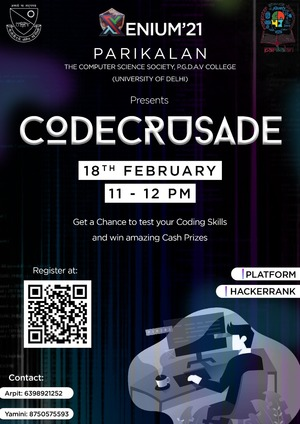
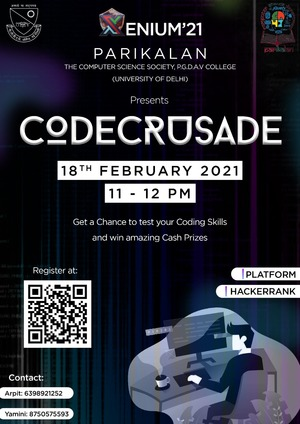
Final Change 1

Changed region(s): [[0.18, 0.3679, 0.81, 0.4292]]

diff --git a/src/components/Clubs/netweavers.js b/src/components/Clubs/netweavers.js
@@ -33,9 +33,10 @@ const netweavers = () => {
             build robust and automated Dynamic Interface but there is no right
             platform to direct you, that's where we introduce you with our Club
             Netweavers.
-            <br /> Our motive is to provide platform for real time hands on for
-            web designing. We use MEAN stack to for development.
-            <br /> Our only motive is: to train the members with new technology
+            <br />
+            We provide platform for real time hands-on MEAN stack for the web
+            development.
+            <br /> Our only motive is to train the members with new technology
             and advance skills to build the attractive interfaces, modules and
             websites.
           </i>
@@ -49,7 +50,7 @@ const netweavers = () => {
             <Figure>
               <Figure.Image src={ravish} roundedCircle />
               <Figure.Caption>
-                <strong style={{color: "white"}}>Dr. Ravish Sharma</strong>
+                <strong style={{ color: "white" }}>Dr. Ravish Sharma</strong>
               </Figure.Caption>
             </Figure>
           </Col>
@@ -57,7 +58,7 @@ const netweavers = () => {
             <Figure>
               <Figure.Image src={charu} roundedCircle />
               <Figure.Caption>
-                <strong style={{color: "white"}}>Dr. Charu Puri</strong>
+                <strong style={{ color: "white" }}>Dr. Charu Puri</strong>
               </Figure.Caption>
             </Figure>
           </Col>
@@ -68,7 +69,7 @@ const netweavers = () => {
           <Col xs={6} md={4}>
             <Figure>
               <Figure.Image src={ankit} roundedCircle />
-              <Figure.Caption style={{color: "white"}}>
+              <Figure.Caption style={{ color: "white" }}>
                 <strong>
                   Ankit Kumar
                   <br />
@@ -82,7 +83,7 @@ const netweavers = () => {
           <Col xs={6} md={4}>
             <Figure>
               <Figure.Image src={adya} roundedCircle />
-              <Figure.Caption style={{color: "white"}}>
+              <Figure.Caption style={{ color: "white" }}>
                 <strong>
                   Adya Mishra
                   <br />
@@ -96,11 +97,11 @@ const netweavers = () => {
           <Col xs={6} md={4}>
             <Figure>
               <Figure.Image src={preksha} roundedCircle />
-              <Figure.Caption style={{color: "white"}}>
+              <Figure.Caption style={{ color: "white" }}>
                 <strong>
-                  Preksha
+                  Preksha Jha
                   <br />
-                  Mathematical Science
+                  B.Sc. Mathematical Science
                   <br />
                   IInd Year
                 </strong>
@@ -110,7 +111,7 @@ const netweavers = () => {
           <Col xs={6} md={4}>
             <Figure>
               <Figure.Image src={akanksha} roundedCircle />
-              <Figure.Caption style={{color: "white"}}>
+              <Figure.Caption style={{ color: "white" }}>
                 <strong>
                   Akanksha Jain
                   <br />
@@ -124,7 +125,7 @@ const netweavers = () => {
           <Col xs={6} md={4}>
             <Figure>
               <Figure.Image src={roshan} roundedCircle />
-              <Figure.Caption style={{color: "white"}}>
+              <Figure.Caption style={{ color: "white" }}>
                 <strong>
                   Roshan Kumar
                   <br />

diff --git a/src/components/Xenium/xeniumEvent3.js b/src/components/Xenium/xeniumEvent3.js
@@ -2,6 +2,7 @@ import { Container, Row, Col, Jumbotron, Button, Image } from "react-bootstrap";
 import event3poster from "./event3poster.jpg";
 import { connect } from "react-redux";
 import ScheduleIcon from "@material-ui/icons/Schedule";
+import EventIcon from "@material-ui/icons/Event";
 
 const xeniumEvent3 = (props) => {
   const userId = localStorage.getItem("userId");
@@ -65,19 +66,15 @@ const xeniumEvent3 = (props) => {
       <Jumbotron>
         <Row>
           <b>
-            {" "}
             You can speak well if your tongue can deliver the message of your
-            heart
+            heart.
           </b>
-          <br /> Participant will be given a random topic on which he/she has to
-          speak but wait, there is a twist🤔. A bell will ring in between the
-          allocated time, and then the participant has to change from pros to
-          the cons of the given topic.
+          Participant will be given a random topic on which he/she has to speak,
+          but wait, there is a twist🤔. A bell will ring in between the
+          allocated time🕧, and then the participant has to flip the views to
+          opposite aspects of the same topic.
           <br /> Those who successfully managed to do so make their way to
-          amazing cash prizes. 🤩🥳
-          <br />
-          <b>Note: </b> The registration will be open for the first 20
-          participants. So register ASAP.
+          amazing cash prizes🤩🤩🤩.
           <p></p>
         </Row>
         <Row>
@@ -87,6 +84,8 @@ const xeniumEvent3 = (props) => {
             <Image src={event3poster} rounded height="auto" width="95%" />
           </Col>
           <Col style={{ textAlign: "left" }} xs={12} md={8}>
+            <EventIcon /> 18th February 2021
+            <br />
             <ScheduleIcon /> 2:30 pm - 4:00 pm
             <h4>Rules</h4>
             1) This is a solo event.
@@ -94,17 +93,22 @@ const xeniumEvent3 = (props) => {
             Mains.
             <br /> 3) We have made a code that randomly selects a topic for the
             participant.
-            <br /> 4) Participant will be given 1 and a half min in the prelim
-            and 1 min in finals to describe the topic in your words.
+            <br /> 4) Participant will be given 150 seconds in the prelims and
+            80 seconds in mains to describe the topic in his words.
             <br /> 5) Using words and phrases which hurt the sentiments of any
             religion, caste and race will not be tolerated. The participant will
             be eliminated on the spot.
             <br /> 6) As soon as the clock starts for the participant, he/she
-            has to speak about the positives of the given topic, after exactly
-            half time (75 seconds in prelims and 30 seconds in mains) a bell
+            has to speak about the positives of the given topic. After exactly
+            half time (75 seconds in prelims and 40 seconds in mains) a bell
             will ring which means now the participant has to speak about the
             negative of the topic.
             <br /> 7) The decision of judges will be final and binding.
+            <br />{" "}
+            <b>
+              Note: 📝The registration will be open for the first 15
+              participants. So register ASAP
+            </b>
             <p></p>
             <h5>
               <u>Event Coordinators</u>

diff --git a/src/components/Xenium/xeniumEvent4.js b/src/components/Xenium/xeniumEvent4.js
@@ -3,6 +3,7 @@ import event4poster from "./event4poster.jpg";
 import { connect } from "react-redux";
 import ScheduleIcon from "@material-ui/icons/Schedule";
 import WhatsAppIcon from "@material-ui/icons/WhatsApp";
+import EventIcon from "@material-ui/icons/Event";
 
 const xeniumEvent4 = (props) => {
   const userId = localStorage.getItem("userId");
@@ -88,6 +89,8 @@ const xeniumEvent4 = (props) => {
             <Image src={event4poster} rounded height="auto" width="95%" />
           </Col>
           <Col style={{ textAlign: "left" }} xs={12} md={8}>
+            <EventIcon /> 18th February 2021
+            <br />
             <ScheduleIcon /> 4:30 pm - 6:00 pm
             <h4>Rules</h4>
             1.) There will be a group of 7 people.
@@ -107,9 +110,12 @@ const xeniumEvent4 = (props) => {
             </ul>
             5.) The one with the highest score as per the panellists, will be
             the winner.
-            <br /> 6.) The size and number of groups and the duration of the
-            Group Discussions completely depend on the number of participants
-            and is on the discretion of the organizers.
+            <br />{" "}
+            <b>
+              Note: The size and number of groups and the duration of the Group
+              Discussions completely depend on the number of participants and is
+              on the discretion of the organizers.
+            </b>
             <p></p>
             <h5>
               <u>Event Coordinator</u>

diff --git a/src/components/Xenium/xeniumEvent2.js b/src/components/Xenium/xeniumEvent2.js
@@ -2,6 +2,7 @@ import { Container, Row, Col, Jumbotron, Button, Image } from "react-bootstrap";
 import event2poster from "./event2poster.jpg";
 import { connect } from "react-redux";
 import ScheduleIcon from "@material-ui/icons/Schedule";
+import EventIcon from "@material-ui/icons/Event";
 import WhatsAppIcon from "@material-ui/icons/WhatsApp";
 
 const xeniumEvent2 = (props) => {
@@ -83,6 +84,8 @@ const xeniumEvent2 = (props) => {
             <Image src={event2poster} rounded height="auto" width="95%" />
           </Col>
           <Col style={{ textAlign: "left" }} xs={12} md={8}>
+            <EventIcon /> 18th February 2021
+            <br />
             <ScheduleIcon /> 12:30 pm - 2:00 pm
             <h4>Rules</h4>
             1) This is a solo event.

diff --git a/src/components/Xenium/xeniumEvent1.js b/src/components/Xenium/xeniumEvent1.js
@@ -2,6 +2,7 @@ import { Container, Row, Col, Jumbotron, Button, Image } from "react-bootstrap";
 import event1poster from "./event1poster.jpg";
 import { connect } from "react-redux";
 import ScheduleIcon from "@material-ui/icons/Schedule";
+import EventIcon from "@material-ui/icons/Event";
 import WhatsAppIcon from "@material-ui/icons/WhatsApp";
 
 const xeniumEvent1 = (props) => {
@@ -84,6 +85,8 @@ const xeniumEvent1 = (props) => {
             <Image src={event1poster} rounded height="auto" width="95%" />
           </Col>
           <Col style={{ textAlign: "left" }} xs={12} md={8}>
+            <EventIcon /> 18th February 2021
+            <br />
             <ScheduleIcon /> 11:00 am - 12:00 pm
             <h4>Rules</h4>
             1) It is a solo event.

diff --git a/src/components/Clubs/quizbots.js b/src/components/Clubs/quizbots.js
@@ -55,7 +55,7 @@ const quizbots = () => {
             <Figure>
               <Figure.Image src={priyanka} roundedCircle />
               <Figure.Caption style={{ color: "white" }}>
-                <strong>Priyanka Gupta</strong>
+                <strong>Ms. Priyanka Gupta</strong>
               </Figure.Caption>
             </Figure>
           </Col>
@@ -63,7 +63,7 @@ const quizbots = () => {
             <Figure>
               <Figure.Image src={akshay} roundedCircle />
               <Figure.Caption style={{ color: "white" }}>
-                <strong>Akshay Chamoli</strong>
+                <strong>Mr. Akshay Chamoli</strong>
               </Figure.Caption>
             </Figure>
           </Col>
